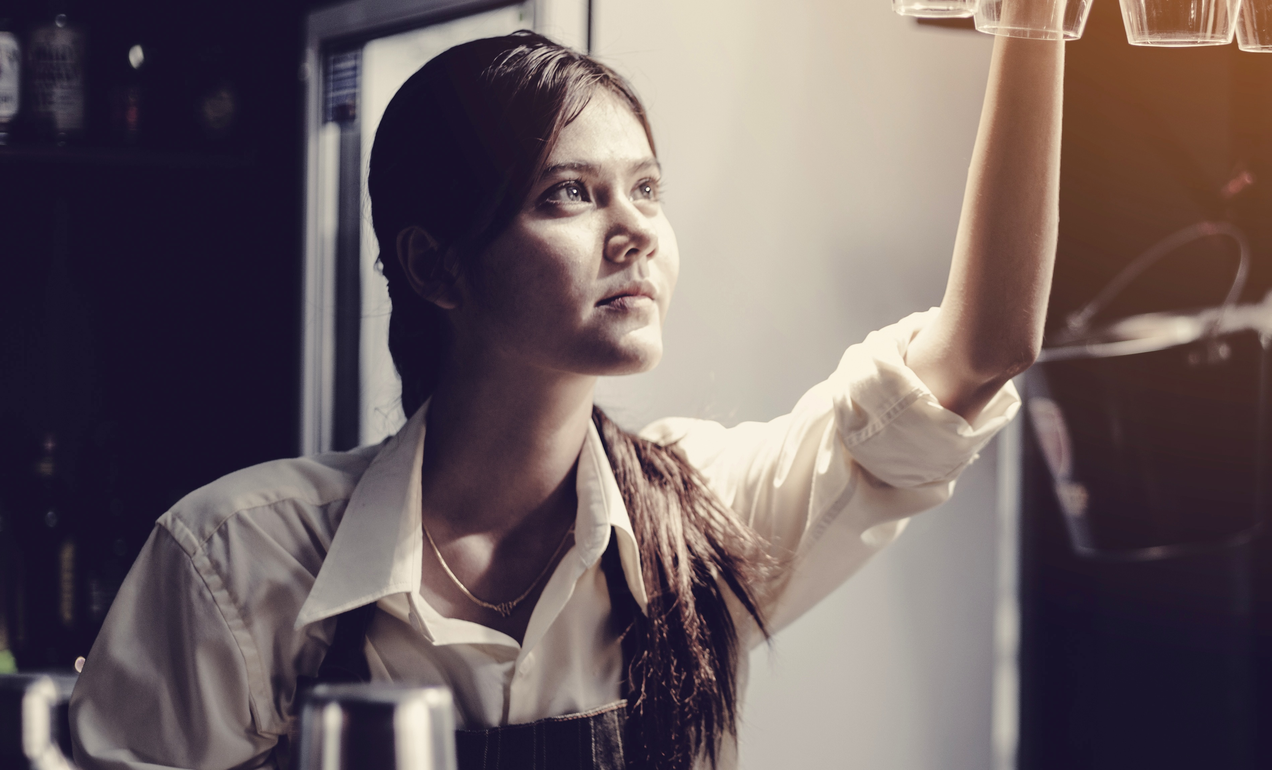
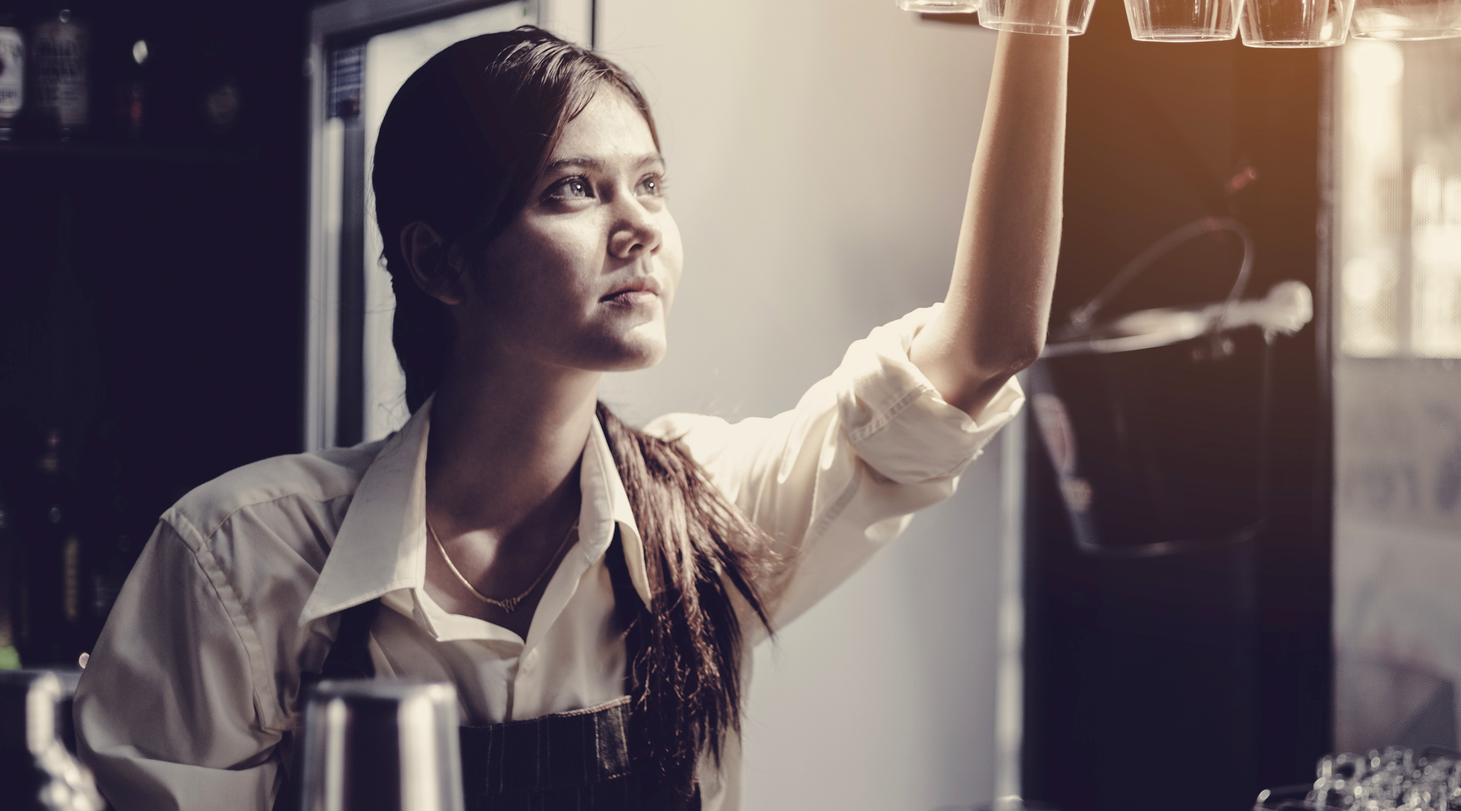
retoques

diff --git a/alpha/_includes/components/soluciones-profesionales.html b/alpha/_includes/components/soluciones-profesionales.html
@@ -5,7 +5,7 @@
 	        	<span class="headline-name">Soluciones Profesionales</span>
 	        	Diseñado para la <span>Hostelería y el Comercio</span>
         	</h2>
-	        <p class="lead g-mb-30">Sabemos que tu negocio te lleva a tener un ritmo estresante y con una gran exigencia. También somos conscientes de que la tecnología en el corazón de tu negocio puede fallarte, causando frustraciones, retrasos en los pedidos y un servicio poco profesional es por este motivo que te ofrecemos una solución TPV para su paz mental.</p>
+	        <p class="lead g-mb-30">Sabemos que tu negocio te lleva a tener un ritmo estresante y con una gran exigencia. También somos conscientes de que la tecnología en el corazón de tu negocio puede fallarte, causando frustraciones, retrasos en los pedidos y un servicio poco profesional es por este motivo que te ofrecemos una solución TPV para tu tranquilidad.</p>
 
 	      </div>
 
@@ -81,7 +81,7 @@
 						<i class="icon-custom icon-color-default icon-lg  fa fa-cloud   "></i>
 						<div class="service-block-desc">
 							<h4>Backoffice Cloud</h4>
-							<p>Un paquete completo de back-office basado en la web que le permite administrar cada aspecto de sus terminales TPV y su parte en su negocio.</p>
+							<p>Un paquete completo de back-office basado en la web que le permite administrar cada aspecto de tus terminales TPV y su parte en su negocio.</p>
 						</div>
 					</div>
 				</div>
@@ -90,7 +90,7 @@
 						<i class="icon-custom icon-color-default icon-lg  fa fa-pencil   "></i>
 						<div class="service-block-desc">
 							<h4>Diseño Elegante</h4>
-							<p>Un diseño delgado con una pantalla a color vibrante y una interfaz de usuario personalizable que crea un aspecto atractivo e intuitivo que su personal apreciará.</p>
+							<p>Un diseño delgado con una pantalla a color vibrante y una interfaz de usuario personalizable que crea un aspecto atractivo e intuitivo que tu personal apreciará.</p>
 						</div>
 					</div>
 				</div>

diff --git a/alpha/_includes/components/contact.html b/alpha/_includes/components/contact.html
@@ -42,7 +42,7 @@
 		  		<div class="row g-mb-30">
 		  			<div class="col-sm-12">
 	            <label class="input">
-	              <input type="text" id="fieldName" name="char_01" placeholder="Su nombre" required>
+	              <input type="text" id="fieldName" name="char_01" placeholder="Tu nombre" required>
 	            </label>
 		  			</div>
 		  		</div>
@@ -51,12 +51,12 @@
 		  		<div class="row">
 		  			<div class="col-sm-6 g-mb-30">
 	            <label class="input">
-	              <input type="text"  id="fieldEmail" name="email_1" placeholder="Su e-mail" required >
+	              <input type="text"  id="fieldEmail" name="email_1" placeholder="Tu e-mail" required >
 	            </label>
 		  			</div>
 		  			<div class="col-sm-6 g-mb-30">
 	            <label class="input">
-	              <input type="text" id="fielddyolhdk" name="char_03" placeholder="Su nº de teléfono" required >
+	              <input type="text" id="fielddyolhdk" name="char_03" placeholder="Tu nº de teléfono" required >
 	            </label>
 		  			</div>
 		  		</div>
@@ -72,7 +72,7 @@
 		  		<div class="row g-mb-20">
 		  			<div class="col-sm-12">
 	            <label class="textarea textarea-expandable">
-	              <textarea rows="3" id="fielddyolhhl" name="text_1" placeholder="Explíquenos su consulta, por favor" required></textarea>
+	              <textarea rows="3" id="fielddyolhhl" name="text_1" placeholder="Explícanos tu consulta, por favor" required></textarea>
 	            </label>
 		  			</div>
 		  		</div>

diff --git a/alpha/_assets/stylesheets/_custom.scss b/alpha/_assets/stylesheets/_custom.scss
@@ -334,10 +334,8 @@ section {
 	  background-image: url(../media/assets/shutterstock_1056447152.jpg);
 	  background-position: center top;
 		background-size: cover;
-		min-height: 600px !important;
-
+		min-height: 500px !important;
 	}
-
 	&::after {
 	    left: 0;
 	  	top: 0;
@@ -347,14 +345,12 @@ section {
 	    position: absolute;
 		  background-image: url(../media/assets/0052A2-0.6.png);
 			background-repeat: repeat;
-			min-height: 600px !important;
+			min-height: 500px !important;
 	}
-
 	img {
-		margin-left: 4em;
+		margin-left: 6em;
 		margin-top: 6em;
 	}
-
 	.btn-brd {
 		border: 2px solid;
 		&:hover {

diff --git a/alpha/_includes/components/welcome.html b/alpha/_includes/components/welcome.html
@@ -4,7 +4,7 @@
 			<!-- Text block -->
 			<div class="col-lg-6 col-lg-offset-0 col-md-10 col-md-offset-1 col-xs-12 col-2xs-12 g-mt-20 g-mb-90 page-scroll wrapper">
         <h2 class=" g-mb-10 main-title g-color-white ">
-        	Soluciones para tu paz mental
+        	Soluciones para tu tranquilidad
       	</h2>
 				<p class="lead  g-mb-30 g-color-white g-mr-50">Descubre un terminal de punto de venta más sencillo e inteligente, que funciona tan rápido como tu negocio.</p>
 

diff --git a/alpha/_pages/distributor-become.md b/alpha/_pages/distributor-become.md
@@ -178,7 +178,7 @@ intro:        'Lorem ipsum…'
 			  		</div>
 			  		<div class="row">
 			  			<div class="col-sm-6 g-mb-30">
-				  			<label class="label" >¿En qué soluciones CASIO está usted interesado principalmente? *</label>
+				  			<label class="label" >¿En qué soluciones CASIO estás interesado principalmente? *</label>
 								<label class="select">
 									<select required id="fielddylidtuy" name="char_10">
 										<option disabled selected>Escoja una opción</option>
@@ -205,7 +205,7 @@ intro:        'Lorem ipsum…'
 			  		</div>
 			  		<div class="row">
 			  			<div class="col-sm-6 g-mb-30">
-				  			<label class="label">Explíquenos un poco sobre su interés</label>
+				  			<label class="label">Explícanos un poco sobre tu interés</label>
 		            <label class="textarea textarea-expandable">
 			            <textarea rows="3" id="fielddylidtur" name="text_1" ></textarea>
 		            </label>
@@ -217,7 +217,7 @@ intro:        'Lorem ipsum…'
 			  			<div class="col-sm-6 g-mb-30">
 								<label class="checkbox"><input name="char_11a" id="subscription" type="checkbox" required><i></i>He leído y acepto la <a href="{{ '/' | prepend: site.data.global.url }}proteccion-de-datos/" target="_blank" title="Política de protección de datos">Política de protección de datos</a></label>
 								<br>
-								<label class="checkbox"><input name="char_11" id="subscription" type="checkbox" required><i></i>Apúntese a recibir comunicaciones de CASIO System Solutions.<br>Podrá darse de baja en cualquier momento.</label>
+								<label class="checkbox"><input name="char_11" id="subscription" type="checkbox" required><i></i>Apúntate a recibir comunicaciones de CASIO System Solutions.<br>Podrás darte de baja en cualquier momento.</label>
 							</div>
 					  </div>
 			  		<div class="row">
